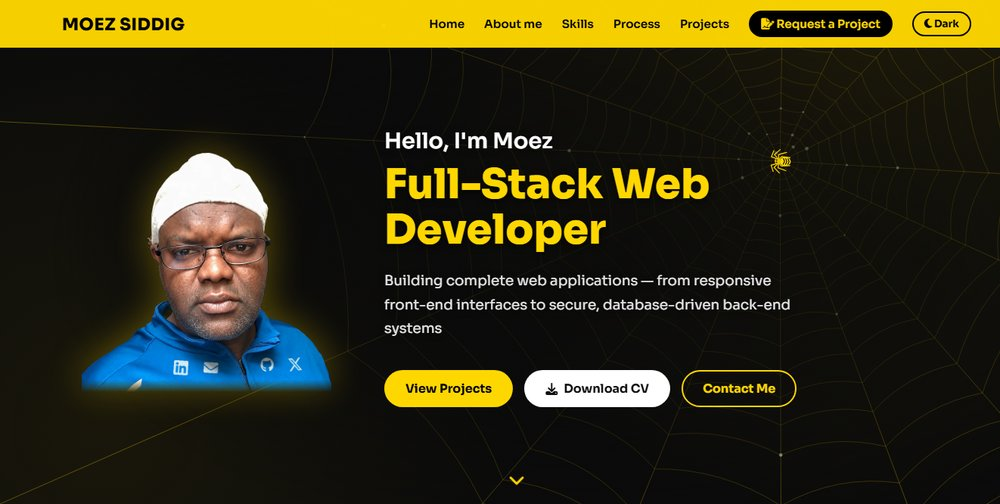
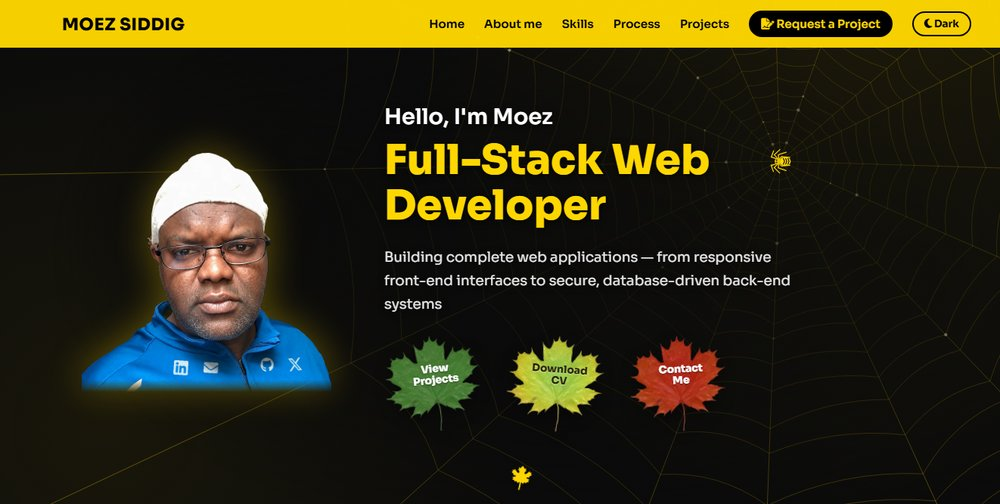
Rewrite README: highlights, tech, structure, credits
- Screenshots of the hero and the maple leaf process
- Refresh the hero thumbnail and social preview with the leaf buttons

diff --git a/README.md b/README.md
@@ -1,53 +1,73 @@
-# Moez Personal Portfolio Website
+# Moez Siddig — Interactive Portfolio
 
-## Project Overview
+A hand-built, responsive portfolio website written in plain **HTML, CSS and JavaScript**, with no frameworks or build tools. The animations are drawn with the HTML Canvas API.
 
-This project is a responsive personal portfolio website developed using HTML, CSS, and JavaScript. The website showcases my background, technical skills, projects, and contact information in a clean and professional design.
+**Live site:** https://moezsiddig.github.io/Interactive_personal_website/
 
-## Features
+![Home page with the self-building spider web](images/portfolio-1.jpg)
 
-- Responsive design for desktop, tablet, and mobile devices
-- Navigation menu with smooth scrolling
-- Hero section with professional introduction
-- About Me section
-- Skills section
-- Projects section
-- Contact section
-- Downloadable CV
-- Interactive JavaScript features
-- Clean and organized layout
+## Highlights
 
-## Technologies Used
+- **Self-building spider web (Canvas):** in the hero, a spider drops in on a silk thread, the spokes shoot out, and it spins the web ring by ring. The threads ripple when the mouse touches them, and the spider runs to the vibration like it is catching prey.
+- **Spring physics:** each thread point is held by a spring, damped, and pulled by its neighbours, so a touch spreads across the web like a wave.
+- **Maple leaf life cycle:** the development process (Plan, Design, Develop, Test, Deploy, Maintain) follows the life of one real maple leaf, from a green bud to a falling brown leaf. A Python script recolours a single photo for each stage.
+- **Leaf buttons:** the main calls to action are three maple leaves in different colours.
+- **Dark mode:** remembered between visits, and applied before the first paint so the page never flashes light.
+- **Contact form:** validated, sends requests straight to my inbox through FormSubmit, falls back to the visitor's email app, and includes a spam trap.
+- **Skills with real logos:** each skill is a tile with its brand logo that opens the official site.
+- **Responsive:** desktop, tablet and phone layouts, including a mobile menu.
+- **Accessible:** keyboard focus styles, ARIA labels, and support for the "reduced motion" setting.
+- **Performance:** animations pause when they are off screen or the tab is hidden, and the page images went from about 13 MB to under 1 MB.
 
-- HTML5
-- CSS3
-- JavaScript
+![My Process: the maple leaf life cycle](images/readme-process.jpg)
 
-## Project Structure
+## Built with
+
+| Area | Tools |
+| --- | --- |
+| Markup and style | HTML5, CSS3 (Grid, Flexbox, custom properties, keyframe animations, media queries) |
+| Interactivity | JavaScript (ES6+), HTML Canvas API, IntersectionObserver, ResizeObserver, MutationObserver |
+| Images | Python (Pillow, NumPy) to recolour the leaf, rembg to remove backgrounds, WebP |
+| Icons and logos | Font Awesome 6, Devicon, Simple Icons |
+| Hosting | GitHub Pages |
+
+## Project structure
 
 ```
-project/
-│
-├── index.html
-├── css/
-├── js/
-├── images/
-├── fonts/
-├── cv/
-├── README.md
-└── Project Summary.pdf
+index.html            Page content
+css/style.css         All styles, light and dark mode, responsive rules
+js/spider-web.js      Spider webs, the hero spider, and the roaming spider
+js/project.js         Contact form, dark mode, mobile menu
+images/               Photos, project screenshots and the leaf stages
+cv/                   Downloadable CV (PDF)
 ```
 
-## How to Run
+## Run it locally
 
-1. Download the project files.
-2. Extract the ZIP file.
-3. Open `index.html` in any modern web browser.
+No installation is needed:
+
+1. Download or clone the repository.
+2. Open `index.html` in any modern browser.
+
+To clone with Git:
+
+```bash
+git clone https://github.com/moezsiddig/Interactive_personal_website.git
+```
+
+## Other projects
+
+- **Notes App:** full-stack note-taking app with Node.js, Express, MongoDB and Passport.js. [Live](https://notes-app-7cb8.onrender.com) · [Code](https://github.com/moezsiddig/notes-app)
+- **Prophets Family Tree:** family tree data structure with Breadth-First Search. [Live](https://moezsiddig.github.io/family-tree-project/) · [Code](https://github.com/moezsiddig/family-tree-project)
+
+## Credits
+
+- Maple leaf photo by Robert Flogaus-Faust, [CC BY 4.0](https://creativecommons.org/licenses/by/4.0/), via [Wikimedia Commons](https://commons.wikimedia.org/wiki/File:Acer_platanoides_2_RF.jpg). Cut out and recoloured.
+- Logos from [Devicon](https://devicon.dev/) (MIT) and [Simple Icons](https://simpleicons.org/) (CC0). Icons from [Font Awesome](https://fontawesome.com/) Free.
 
 ## Author
 
-**Abdel Moez Mohammed**
+**Abdel Moez Mohammed (Moez Siddig)**, Full-Stack Web Developer, Ottawa, Canada.
+Software Development Bootcamp, Circuit Stream (2026–2027).
 
-Software Development Student
-
-Circuit Stream Bootcamp
+[LinkedIn](https://www.linkedin.com/in/abdel-moez-mohammed-96880836b/) · [GitHub](https://github.com/moezsiddig)
